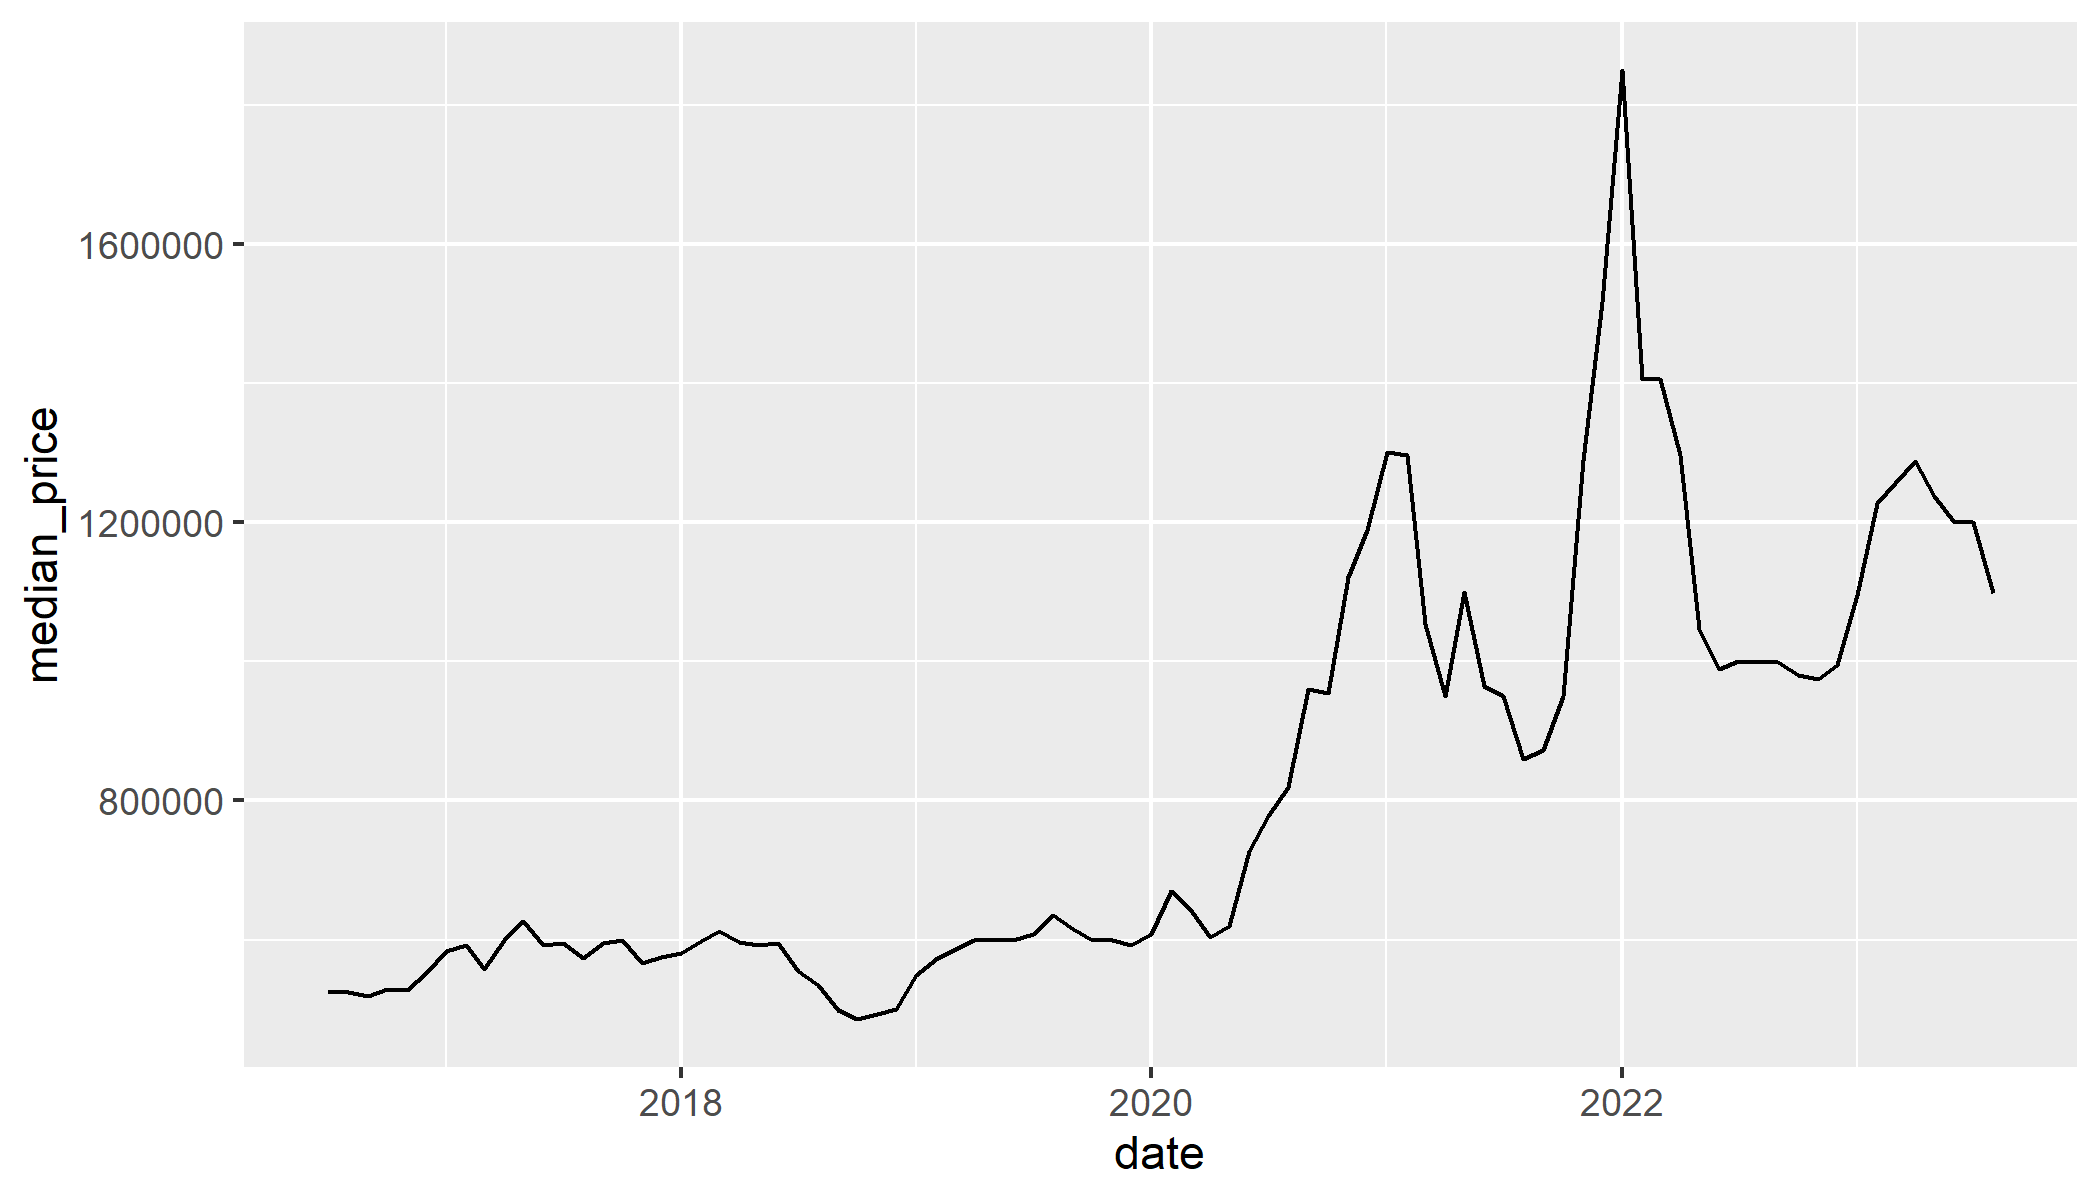
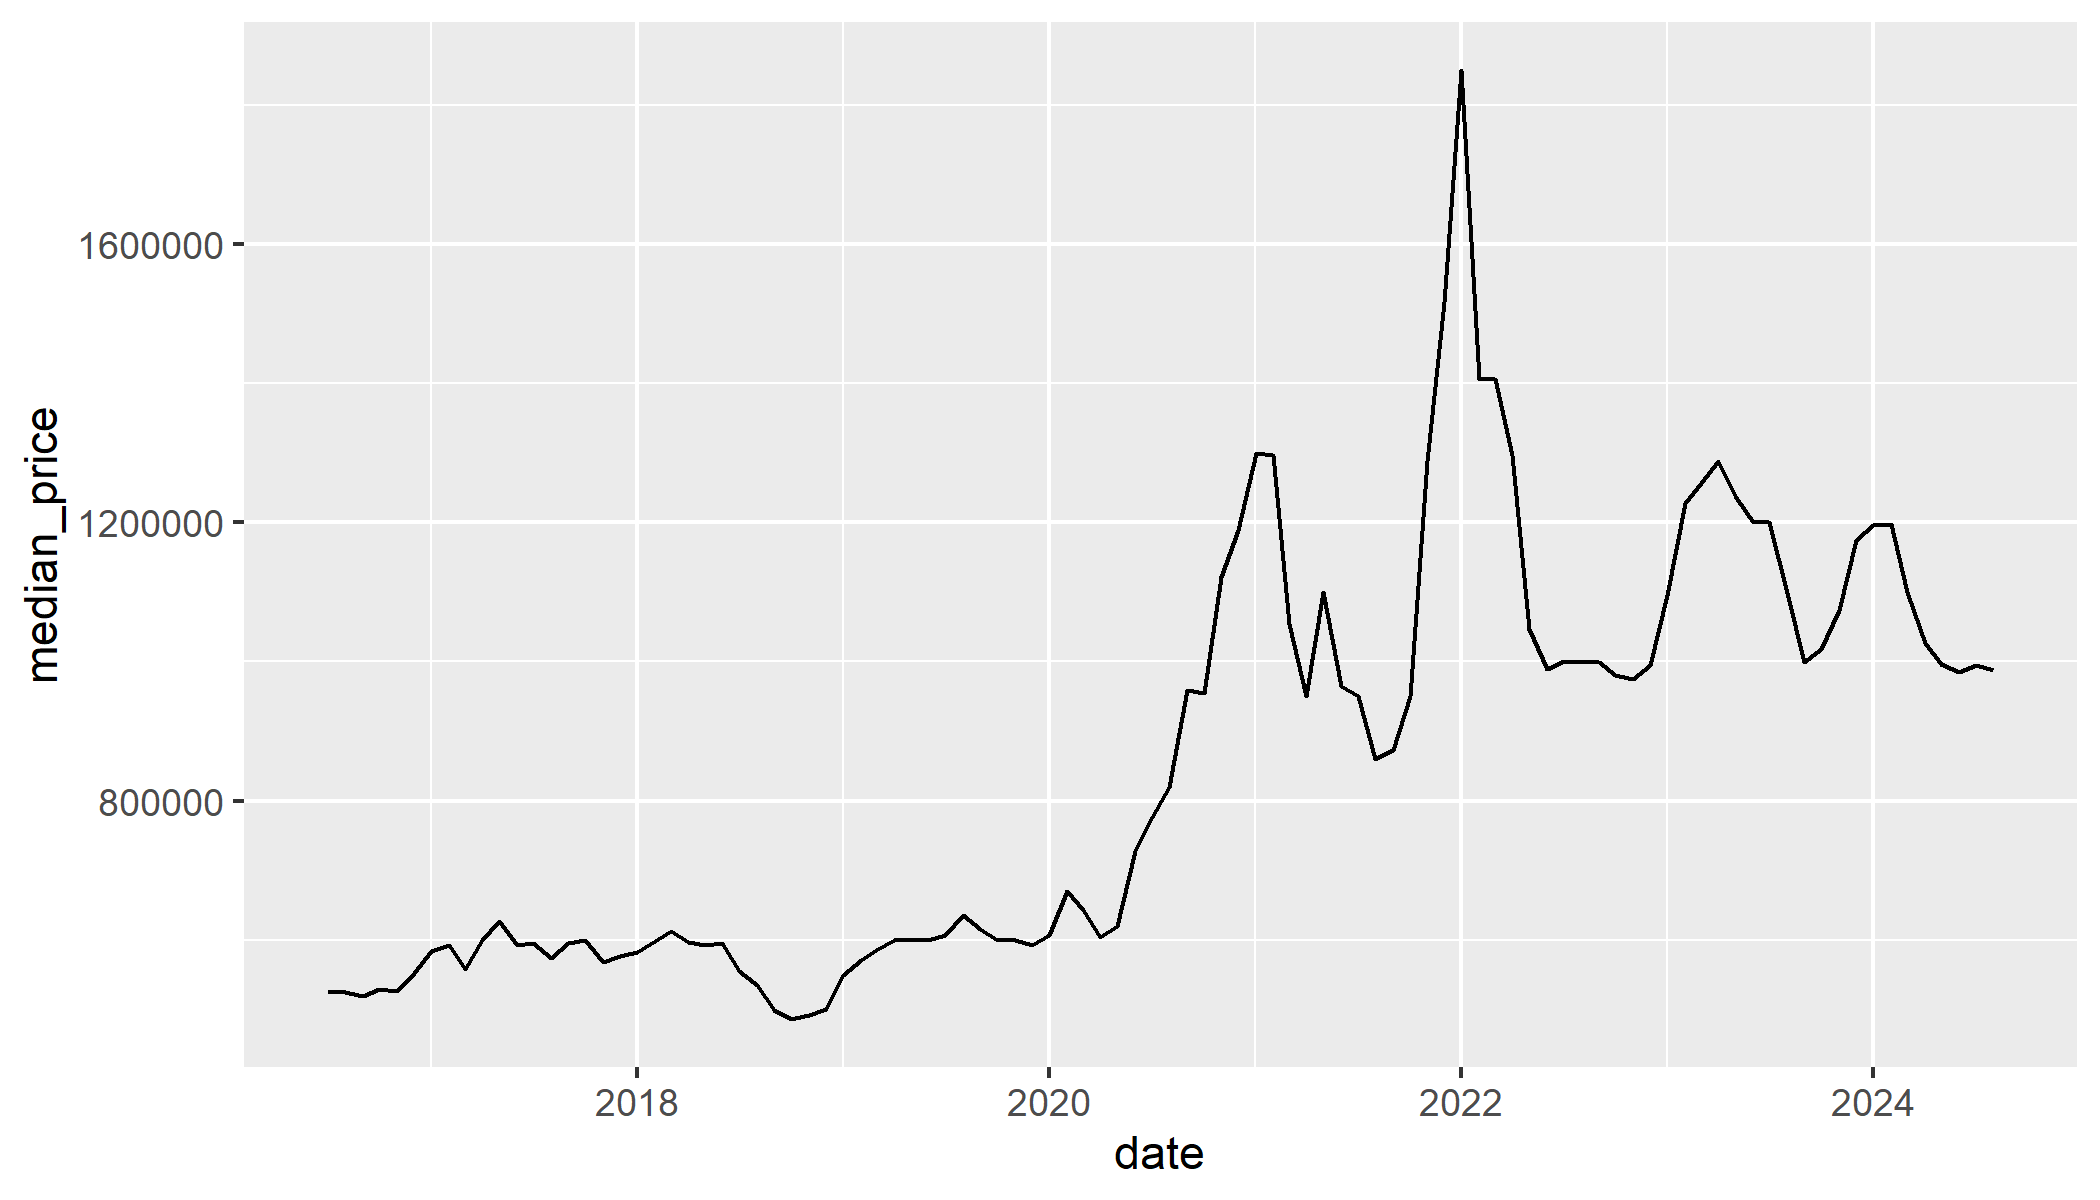
Update Acquisition

diff --git a/lecture-slides/06-Acquisition/06-Acquisition-with-solutions.html b/lecture-slides/06-Acquisition/06-Acquisition-with-solutions.html
@@ -3,7 +3,7 @@
   <head>
     <title>Topic 6: Data Acquisition</title>
     <meta charset="utf-8" />
-    <meta name="author" content="Nick Hagerty   ECNS 460/560 Fall 2023   Montana State University" />
+    <meta name="author" content="Nick Hagerty   ECNS 460/560   Montana State University" />
     <script src="libs/header-attrs/header-attrs.js"></script>
     <link href="libs/remark-css/default.css" rel="stylesheet" />
     <link href="libs/remark-css/metropolis.css" rel="stylesheet" />
@@ -17,7 +17,7 @@ class: center, middle, inverse, title-slide
 # Topic 6: Data Acquisition
 ]
 .author[
-### Nick Hagerty <br> ECNS 460/560 Fall 2023 <br> Montana State University
+### Nick Hagerty <br> ECNS 460/560 <br> Montana State University
 ]
 .date[
 ### .small[<br> *Parts of these slides are adapted from <a href="https://raw.githack.com/uo-ec607/lectures/master/07-web-apis/07-web-apis.html">“Data Science for Economists”</a> by Grant R. McDermott, used under the <a href="https://github.com/uo-ec607/lectures/blob/master/LICENSE">MIT License</a>.]
@@ -176,32 +176,7 @@ Let's scrape this table with `rvest`.
 
 ```r
 library(tidyverse)
-```
-
-```
-## ── Attaching core tidyverse packages ──────────────────────── tidyverse 2.0.0 ──
-## ✔ dplyr     1.1.2     ✔ readr     2.1.4
-## ✔ forcats   1.0.0     ✔ stringr   1.5.0
-## ✔ ggplot2   3.4.2     ✔ tibble    3.2.1
-## ✔ lubridate 1.9.2     ✔ tidyr     1.3.0
-## ✔ purrr     1.0.1     
-## ── Conflicts ────────────────────────────────────────── tidyverse_conflicts() ──
-## ✖ dplyr::filter() masks stats::filter()
-## ✖ dplyr::lag()    masks stats::lag()
-## ℹ Use the conflicted package (&lt;http://conflicted.r-lib.org/&gt;) to force all conflicts to become errors
-```
-
-```r
 library(rvest)
-```
-
-```
-## 
-## Attaching package: 'rvest'
-## 
-## The following object is masked from 'package:readr':
-## 
-##     guess_encoding
 ```
 
 First, read the whole page into R:
@@ -214,9 +189,9 @@ page
 
 ```
 ## {html_document}
-## &lt;html class="client-nojs vector-feature-language-in-header-enabled vector-feature-language-in-main-page-header-disabled vector-feature-sticky-header-disabled vector-feature-page-tools-pinned-disabled vector-feature-toc-pinned-clientpref-1 vector-feature-main-menu-pinned-disabled vector-feature-limited-width-clientpref-1 vector-feature-limited-width-content-enabled vector-feature-zebra-design-disabled vector-feature-custom-font-size-clientpref-disabled vector-feature-client-preferences-disabled" lang="en" dir="ltr"&gt;
+## &lt;html class="client-nojs vector-feature-language-in-header-enabled vector-feature-language-in-main-page-header-disabled vector-feature-sticky-header-disabled vector-feature-page-tools-pinned-disabled vector-feature-toc-pinned-clientpref-1 vector-feature-main-menu-pinned-disabled vector-feature-limited-width-clientpref-1 vector-feature-limited-width-content-enabled vector-feature-custom-font-size-clientpref-1 vector-feature-appearance-pinned-clientpref-1 vector-feature-night-mode-enabled skin-theme-clientpref-day vector-toc-available" lang="en" dir="ltr"&gt;
 ## [1] &lt;head&gt;\n&lt;meta http-equiv="Content-Type" content="text/html; charset=UTF-8 ...
-## [2] &lt;body class="skin-vector skin-vector-search-vue mediawiki ltr sitedir-ltr ...
+## [2] &lt;body class="skin--responsive skin-vector skin-vector-search-vue mediawik ...
 ```
 
 ---
@@ -587,20 +562,20 @@ bzn_house_prices
 ```
 
 ```
-## # A tibble: 86 × 4
+## # A tibble: 98 × 4
 ##    realtime_start realtime_end date       value   
 ##    &lt;chr&gt;          &lt;chr&gt;        &lt;chr&gt;      &lt;chr&gt;   
-##  1 2023-09-27     2023-09-27   2016-07-01 524950.0
-##  2 2023-09-27     2023-09-27   2016-08-01 525000.0
-##  3 2023-09-27     2023-09-27   2016-09-01 519450.0
-##  4 2023-09-27     2023-09-27   2016-10-01 529000.0
-##  5 2023-09-27     2023-09-27   2016-11-01 527000.0
-##  6 2023-09-27     2023-09-27   2016-12-01 552450.0
-##  7 2023-09-27     2023-09-27   2017-01-01 583500.0
-##  8 2023-09-27     2023-09-27   2017-02-01 592000.0
-##  9 2023-09-27     2023-09-27   2017-03-01 558125.0
-## 10 2023-09-27     2023-09-27   2017-04-01 599000.0
-## # ℹ 76 more rows
+##  1 2024-09-23     2024-09-23   2016-07-01 524950.0
+##  2 2024-09-23     2024-09-23   2016-08-01 525000.0
+##  3 2024-09-23     2024-09-23   2016-09-01 519450.0
+##  4 2024-09-23     2024-09-23   2016-10-01 529000.0
+##  5 2024-09-23     2024-09-23   2016-11-01 527000.0
+##  6 2024-09-23     2024-09-23   2016-12-01 552450.0
+##  7 2024-09-23     2024-09-23   2017-01-01 583500.0
+##  8 2024-09-23     2024-09-23   2017-02-01 592000.0
+##  9 2024-09-23     2024-09-23   2017-03-01 558125.0
+## 10 2024-09-23     2024-09-23   2017-04-01 599000.0
+## # ℹ 88 more rows
 ```
 
 ---
@@ -620,7 +595,7 @@ bzn_house_prices
 ```
 
 ```
-## # A tibble: 86 × 2
+## # A tibble: 98 × 2
 ##    date       median_price
 ##    &lt;date&gt;            &lt;dbl&gt;
 ##  1 2016-07-01       524950
@@ -633,7 +608,7 @@ bzn_house_prices
 ##  8 2017-02-01       592000
 ##  9 2017-03-01       558125
 ## 10 2017-04-01       599000
-## # ℹ 76 more rows
+## # ℹ 88 more rows
 ```
 
 ---
@@ -653,12 +628,16 @@ ggplot(bzn_house_prices, aes(x = date, y = median_price)) +
 
 # Challenge
 
-**How has Bozeman's pandemic housing market compared with other cities?**
-* Get similar data from 2-3 other housing markets you're interested in.
-* Plot time-series graphs for each housing market.
-* More advanced:
-  - Write a function to retrieve each series.
-  - Combine all the results in 1 dataframe (keep it tidy!).
+**How has Bozeman's post-pandemic housing market compared with other cities?**
+* Get similar data from 1 other housing market you're interested in.
+* Plot a time-series graph for this market and compare it with Bozeman's.
+
+More advanced:
+ - Get data from several more housing markets.
+ - Combine all the results in 1 dataframe (keep it tidy!) and plot them all on 1 graph.
+  
+Even more advanced:
+ - Write and use a function to retrieve each series.
 
 ---
 

diff --git a/lecture-slides/06-Acquisition/06-Acquisition.html b/lecture-slides/06-Acquisition/06-Acquisition.html
@@ -3,7 +3,7 @@
   <head>
     <title>Topic 6: Data Acquisition</title>
     <meta charset="utf-8" />
-    <meta name="author" content="Nick Hagerty   ECNS 460/560 Fall 2023   Montana State University" />
+    <meta name="author" content="Nick Hagerty   ECNS 460/560   Montana State University" />
     <script src="libs/header-attrs/header-attrs.js"></script>
     <link href="libs/remark-css/default.css" rel="stylesheet" />
     <link href="libs/remark-css/metropolis.css" rel="stylesheet" />
@@ -17,7 +17,7 @@ class: center, middle, inverse, title-slide
 # Topic 6: Data Acquisition
 ]
 .author[
-### Nick Hagerty <br> ECNS 460/560 Fall 2023 <br> Montana State University
+### Nick Hagerty <br> ECNS 460/560 <br> Montana State University
 ]
 .date[
 ### .small[<br> *Parts of these slides are adapted from <a href="https://raw.githack.com/uo-ec607/lectures/master/07-web-apis/07-web-apis.html">“Data Science for Economists”</a> by Grant R. McDermott, used under the <a href="https://github.com/uo-ec607/lectures/blob/master/LICENSE">MIT License</a>.]
@@ -176,32 +176,7 @@ Let's scrape this table with `rvest`.
 
 ```r
 library(tidyverse)
-```
-
-```
-## ── Attaching core tidyverse packages ──────────────────────── tidyverse 2.0.0 ──
-## ✔ dplyr     1.1.2     ✔ readr     2.1.4
-## ✔ forcats   1.0.0     ✔ stringr   1.5.0
-## ✔ ggplot2   3.4.2     ✔ tibble    3.2.1
-## ✔ lubridate 1.9.2     ✔ tidyr     1.3.0
-## ✔ purrr     1.0.1     
-## ── Conflicts ────────────────────────────────────────── tidyverse_conflicts() ──
-## ✖ dplyr::filter() masks stats::filter()
-## ✖ dplyr::lag()    masks stats::lag()
-## ℹ Use the conflicted package (&lt;http://conflicted.r-lib.org/&gt;) to force all conflicts to become errors
-```
-
-```r
 library(rvest)
-```
-
-```
-## 
-## Attaching package: 'rvest'
-## 
-## The following object is masked from 'package:readr':
-## 
-##     guess_encoding
 ```
 
 First, read the whole page into R:
@@ -582,12 +557,16 @@ ggplot(bzn_house_prices, aes(x = date, y = median_price)) +
 
 # Challenge
 
-**How has Bozeman's pandemic housing market compared with other cities?**
-* Get similar data from 2-3 other housing markets you're interested in.
-* Plot time-series graphs for each housing market.
-* More advanced:
-  - Write a function to retrieve each series.
-  - Combine all the results in 1 dataframe (keep it tidy!).
+**How has Bozeman's post-pandemic housing market compared with other cities?**
+* Get similar data from 1 other housing market you're interested in.
+* Plot a time-series graph for this market and compare it with Bozeman's.
+
+More advanced:
+ - Get data from several more housing markets.
+ - Combine all the results in 1 dataframe (keep it tidy!) and plot them all on 1 graph.
+  
+Even more advanced:
+ - Write and use a function to retrieve each series.
 
 
 ---
